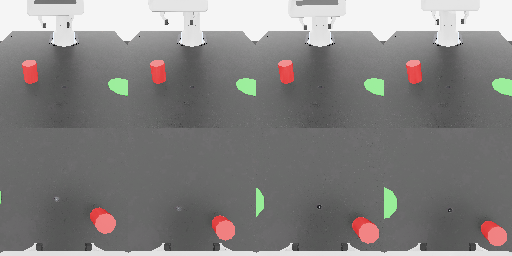
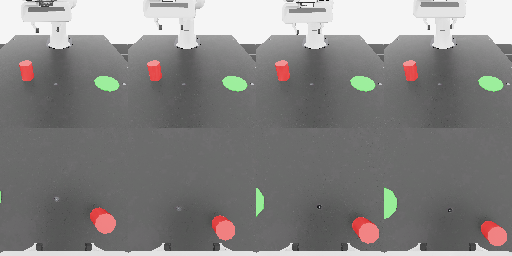
Recorder: report attempts + expert SR (G2 gate needs the denominator)
Claude-Session: https://claude.ai/code/session_01X99VdKP4g1e93EkpVUm1BC

diff --git a/src/cog/datagen/record_source_demos.py b/src/cog/datagen/record_source_demos.py
@@ -73,10 +73,12 @@ def main():
 
     target = args_cli.num_demos
     step_count = 0
+    attempts = 0  # episodes finished (success + fail); SR = exported/attempts
     while simulation_app.is_running():
         _, _, terminated, truncated, _ = env.step(actions)
         dones = terminated | truncated
         if dones.any():
+            attempts += int(dones.sum().item())
             sm.reset_idx(dones.nonzero(as_tuple=False).squeeze(-1))
 
         origins = env.scene.env_origins
@@ -99,11 +101,13 @@ def main():
         step_count += 1
         exported = env.recorder_manager.exported_successful_episode_count
         if step_count % 200 == 0:
-            print(f"[record] steps={step_count} exported={exported}/{target}")
+            print(f"[record] steps={step_count} exported={exported}/{target} attempts={attempts}")
         if exported >= target:
             break
 
-    print(f"[record] DONE: {env.recorder_manager.exported_successful_episode_count} demos -> "
+    n_exp = env.recorder_manager.exported_successful_episode_count
+    sr = n_exp / max(attempts, 1)
+    print(f"[record] DONE: {n_exp} demos, attempts={attempts}, expert_SR={sr:.2f} -> "
           f"{env_cfg.recorders.dataset_export_dir_path}/{env_cfg.recorders.dataset_filename}.hdf5")
     env.close()
 
